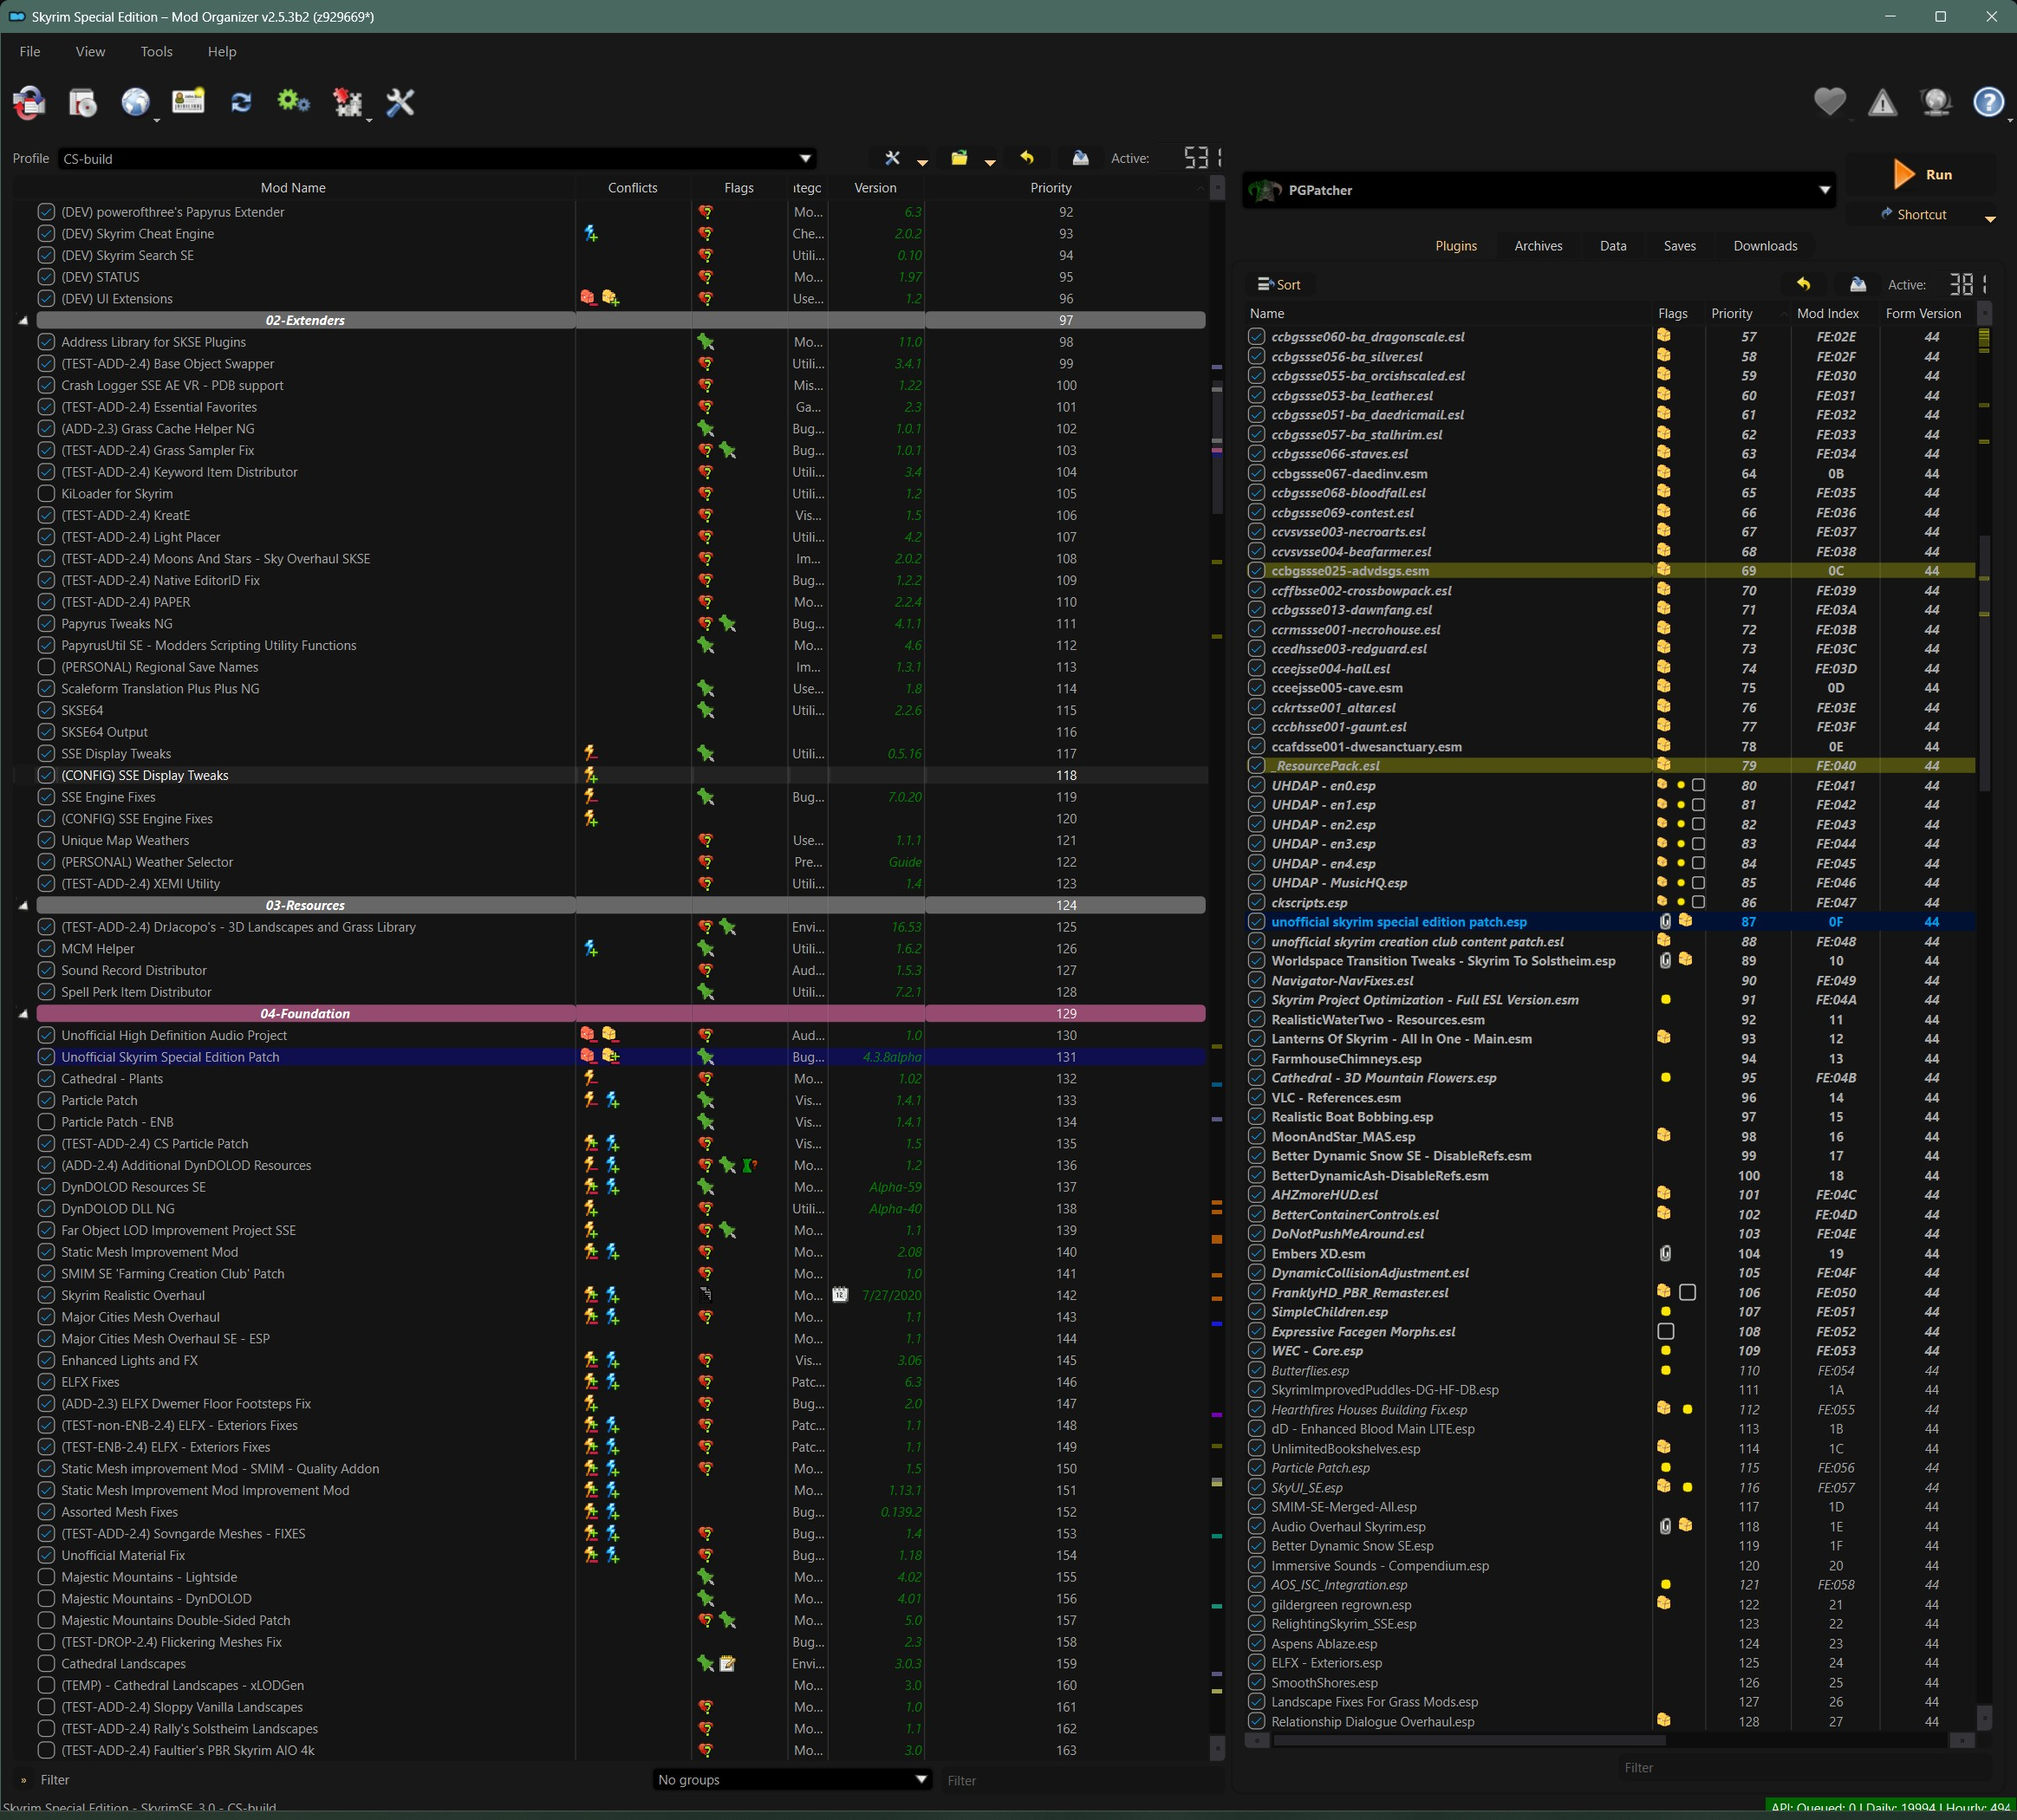
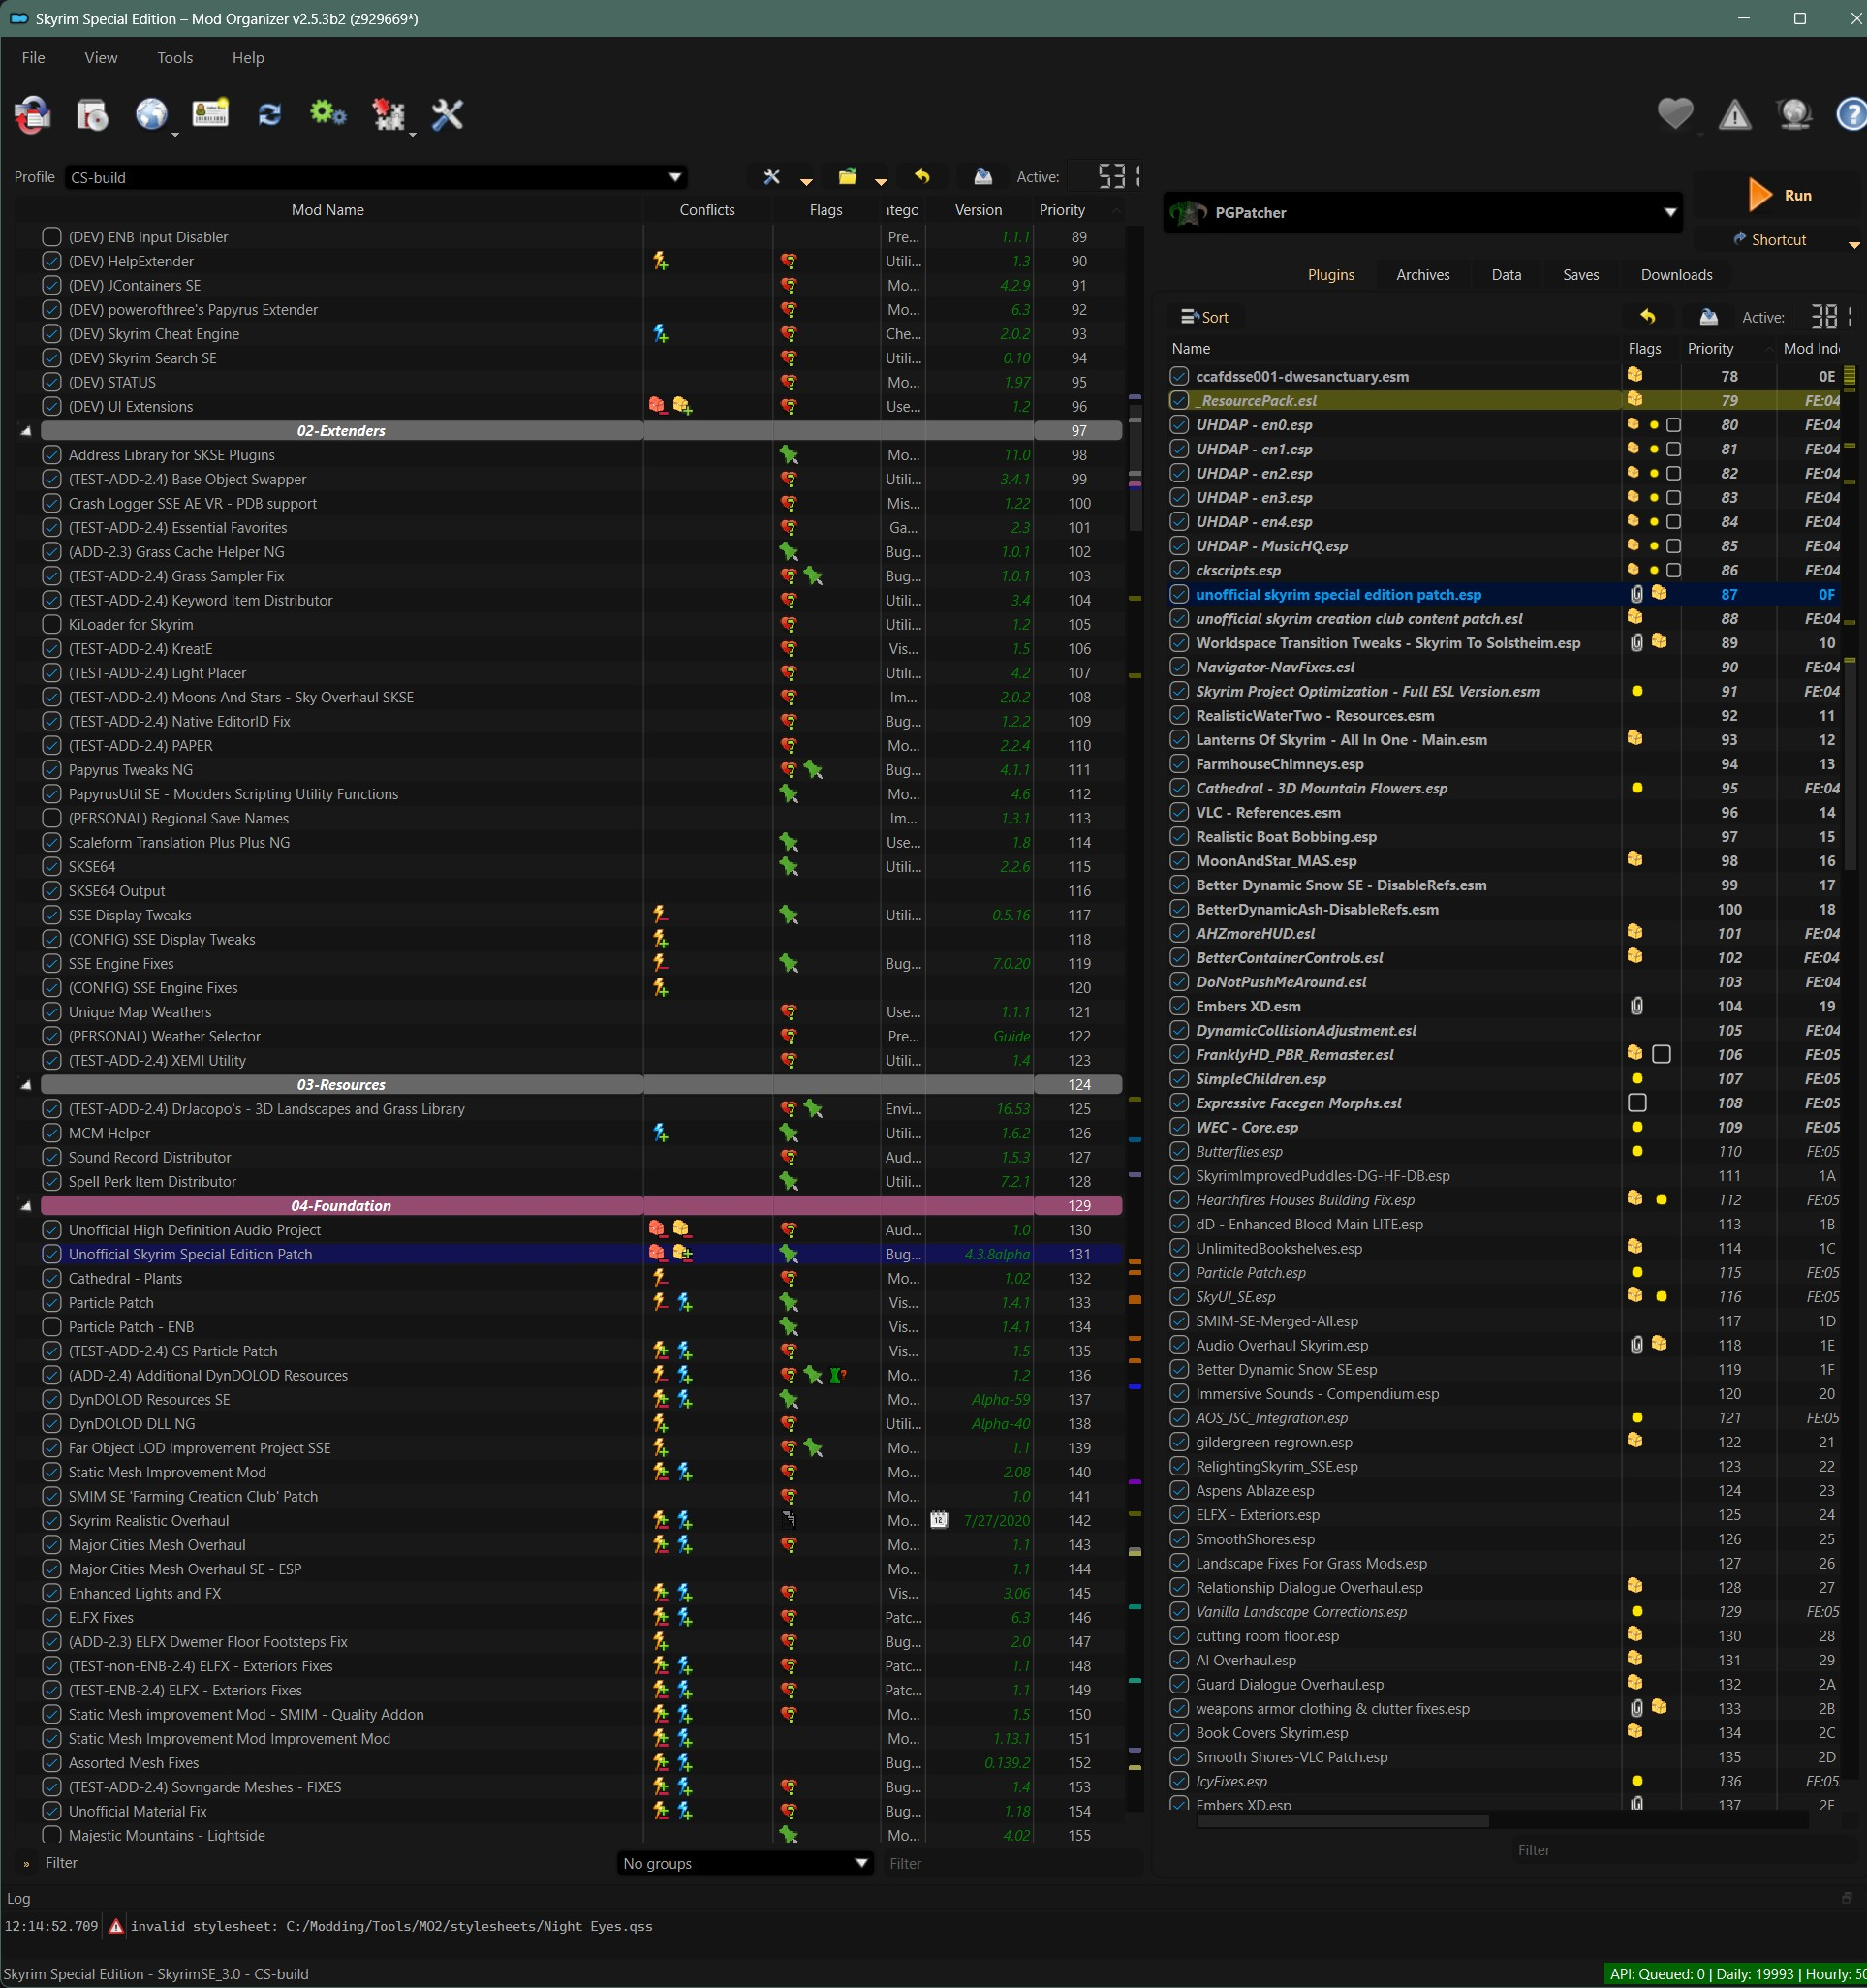
style(night-eyes): refactor and enhance theme appearance
- Standardize colors, backgrounds, and disabled states across widgets.
- Improve font readability for general UI and monospaced elements.
- Refine styles for item views, inputs, buttons, menus, and progress bars.
- Introduce dedicated styling for sliders, splitters, and size grips.
- Enhance consistency of tab and header view appearance.
- Update `README.md` with theme-specific version and author information.
- Replace theme screenshot to reflect latest visual updates.

diff --git a/README.md b/README.md
@@ -1,2 +1,4 @@
-# mo2-themes
-Themes for Mod Organizer 2.
+"Night Eyes" theme for Mod Organizer 2.
+Version: 1.2.1
+Author: ciathyza
+Updated by: z929669